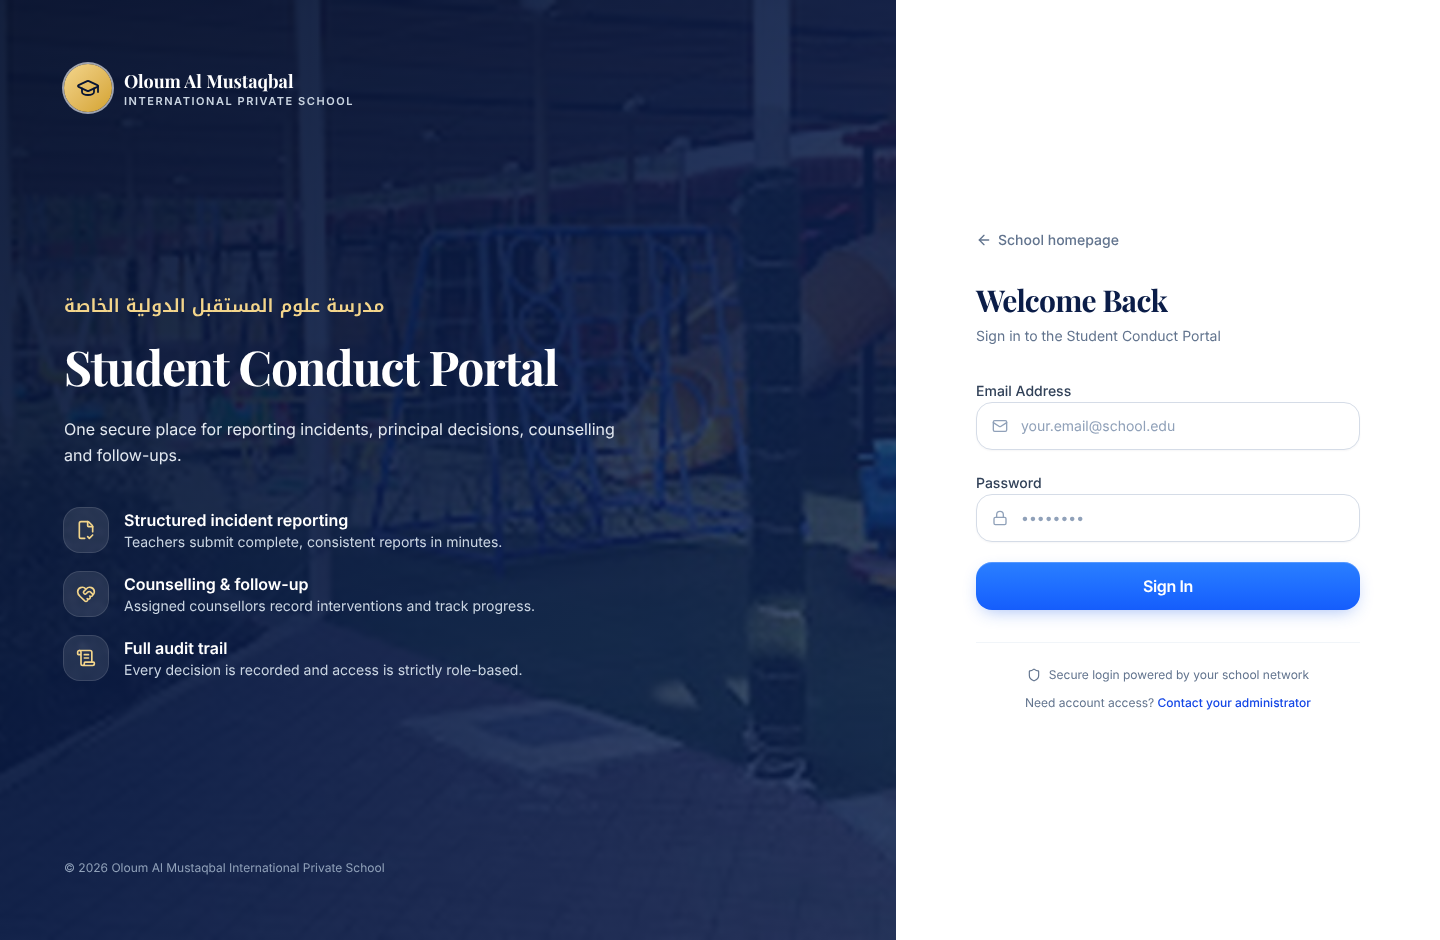
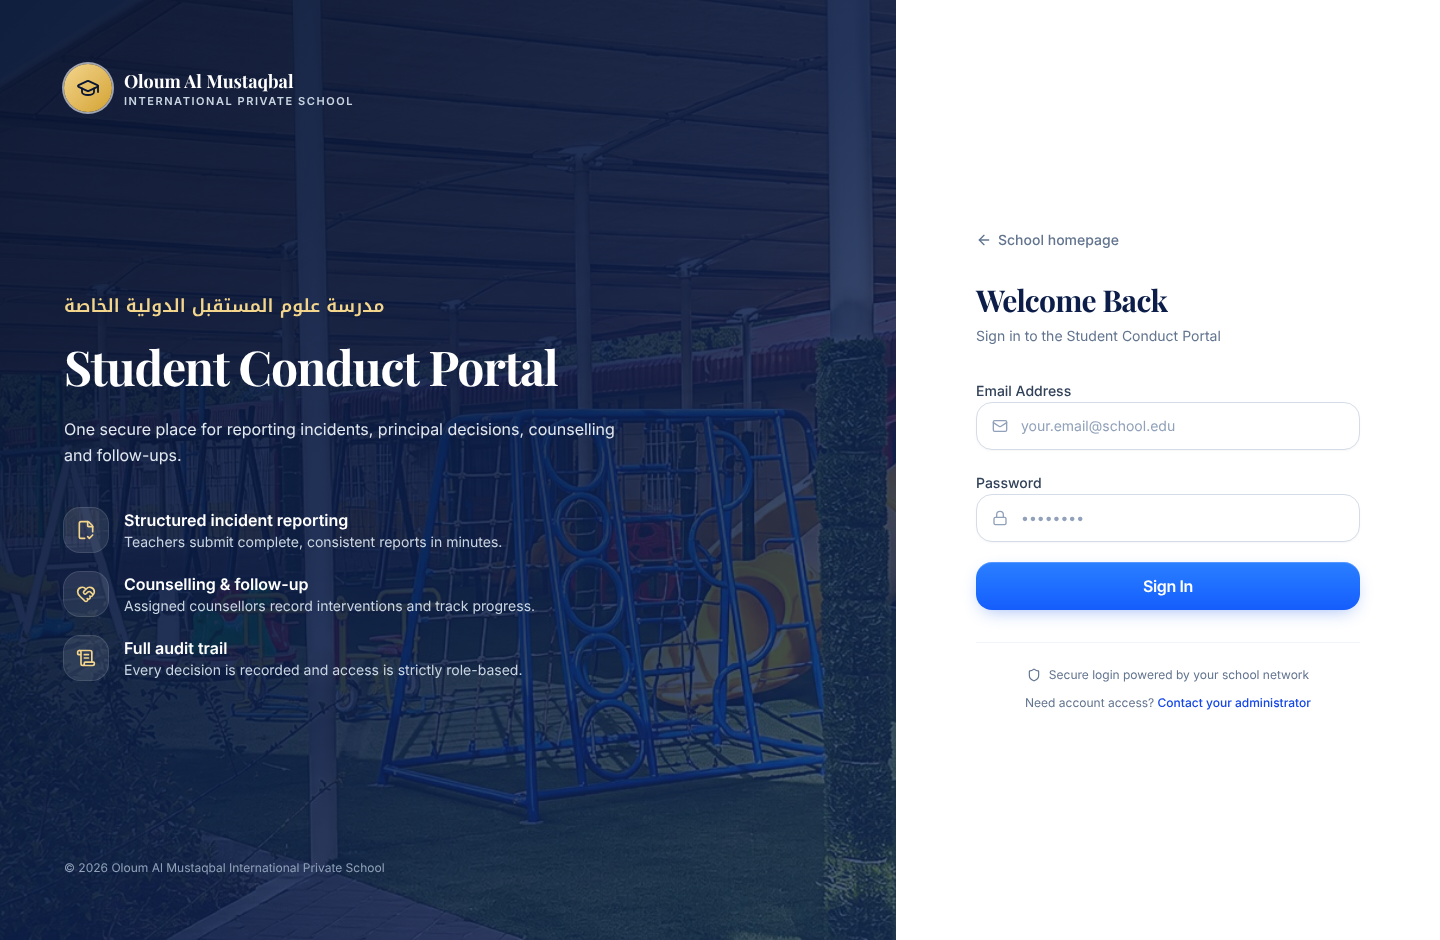
Use the high-resolution, enhanced campus photo on the homepage
Replace the low-resolution crop with the photo provided by the school,
lightly enhanced (shadow lift, +6% contrast, +10% colour, gentle
sharpening). Lighten the hero overlay so the photo shows, and refresh the
homepage and login screenshots.

Claude-Session: https://claude.ai/code/session_019HLAztZPKUb6j8UcEyjLs1

Changed region(s): [[0.3438, 0.4319, 0.625, 0.9564], [0.5, 0.1234, 0.625, 0.4011], [0.5, 0.9872, 0.5625, 1.0]]

diff --git a/app/page.tsx b/app/page.tsx
@@ -119,7 +119,7 @@ export default function HomePage() {
         <section className="relative overflow-hidden bg-navy-950 text-white">
           {/* eslint-disable-next-line @next/next/no-img-element */}
           <img src={school.campusImage} alt="" aria-hidden className="absolute inset-0 h-full w-full object-cover object-center" />
-          <div aria-hidden className="absolute inset-0 bg-gradient-to-r from-navy-950 via-navy-950/85 to-navy-900/30" />
+          <div aria-hidden className="absolute inset-0 bg-gradient-to-r from-navy-950/95 via-navy-950/75 to-navy-900/10" />
           <div aria-hidden className="absolute inset-0 bg-gradient-to-t from-navy-950/70 via-transparent to-transparent" />
           <div className="relative mx-auto max-w-7xl px-4 pb-36 pt-20 sm:px-6 lg:px-8 lg:pb-44 lg:pt-28">
             <div>
@@ -163,7 +163,7 @@ export default function HomePage() {
           <div className="relative pb-10">
             <div className="overflow-hidden rounded-2xl shadow-xl ring-1 ring-slate-200">
               {/* eslint-disable-next-line @next/next/no-img-element */}
-              <img src={school.campusImage} alt={`Outdoor play area at ${school.nameEn}`} width={1197} height={540} className="aspect-[4/3] h-full w-full object-cover" />
+              <img src={school.campusImage} alt={`Outdoor play area at ${school.nameEn}`} width={1989} height={791} className="aspect-[4/3] h-full w-full object-cover object-[60%_50%]" />
             </div>
             <div className="absolute -bottom-2 right-4 w-[min(85%,22rem)] rounded-xl bg-white p-3 shadow-2xl ring-1 ring-slate-200 sm:right-6">
               {/* eslint-disable-next-line @next/next/no-img-element */}
